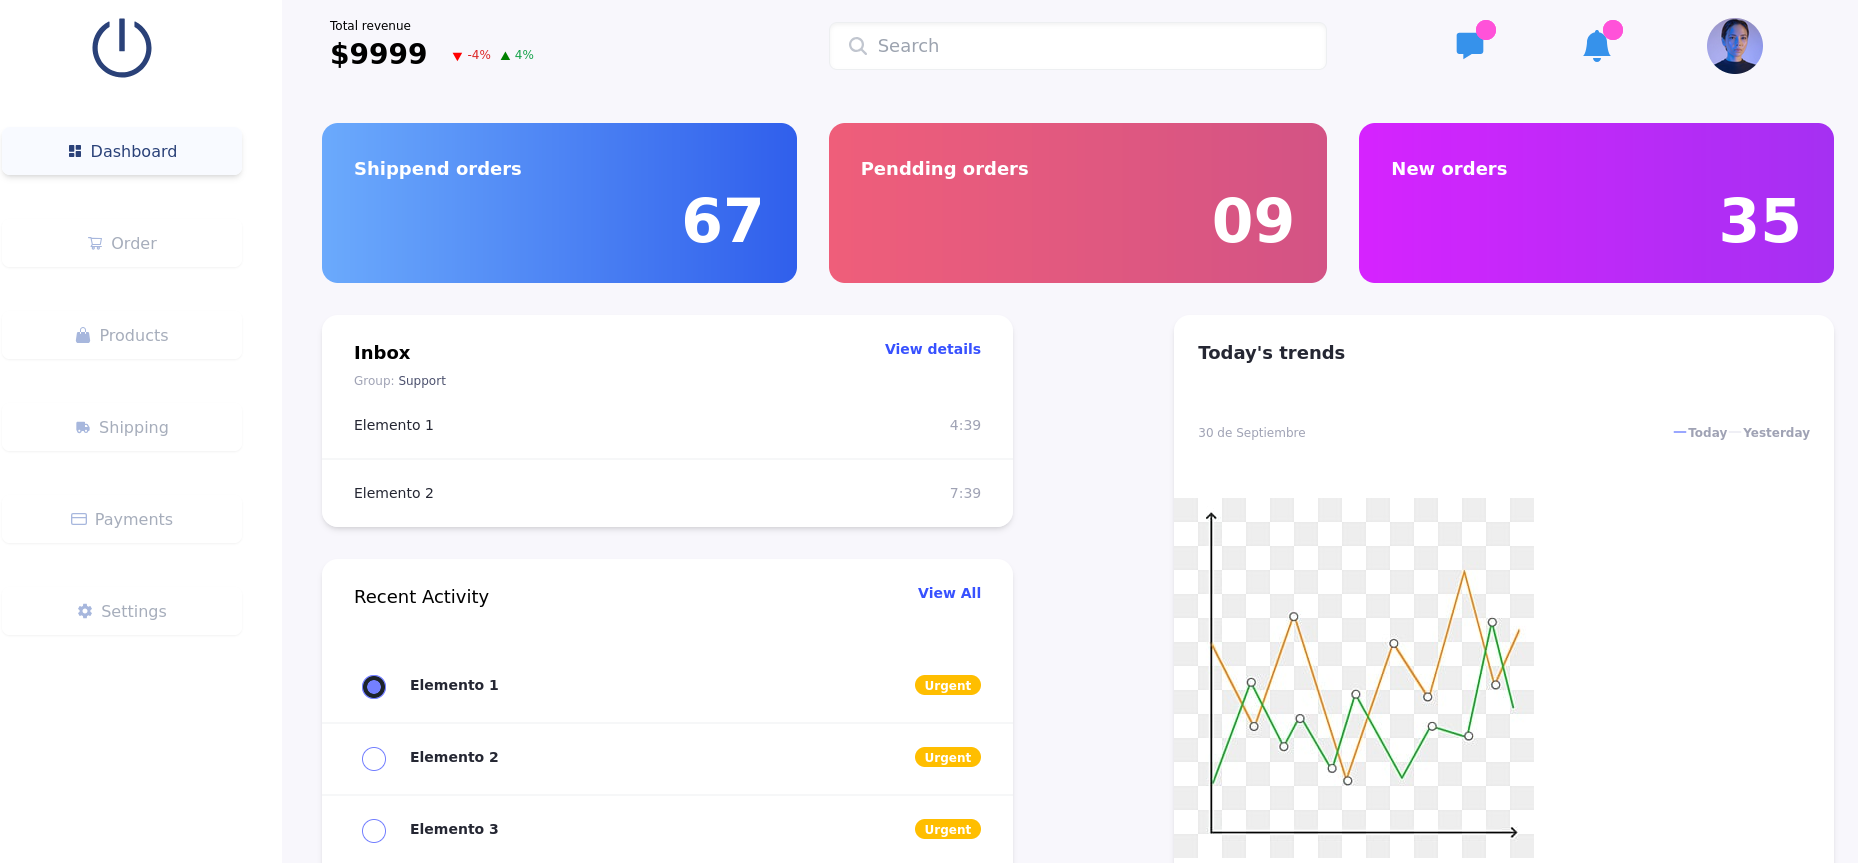
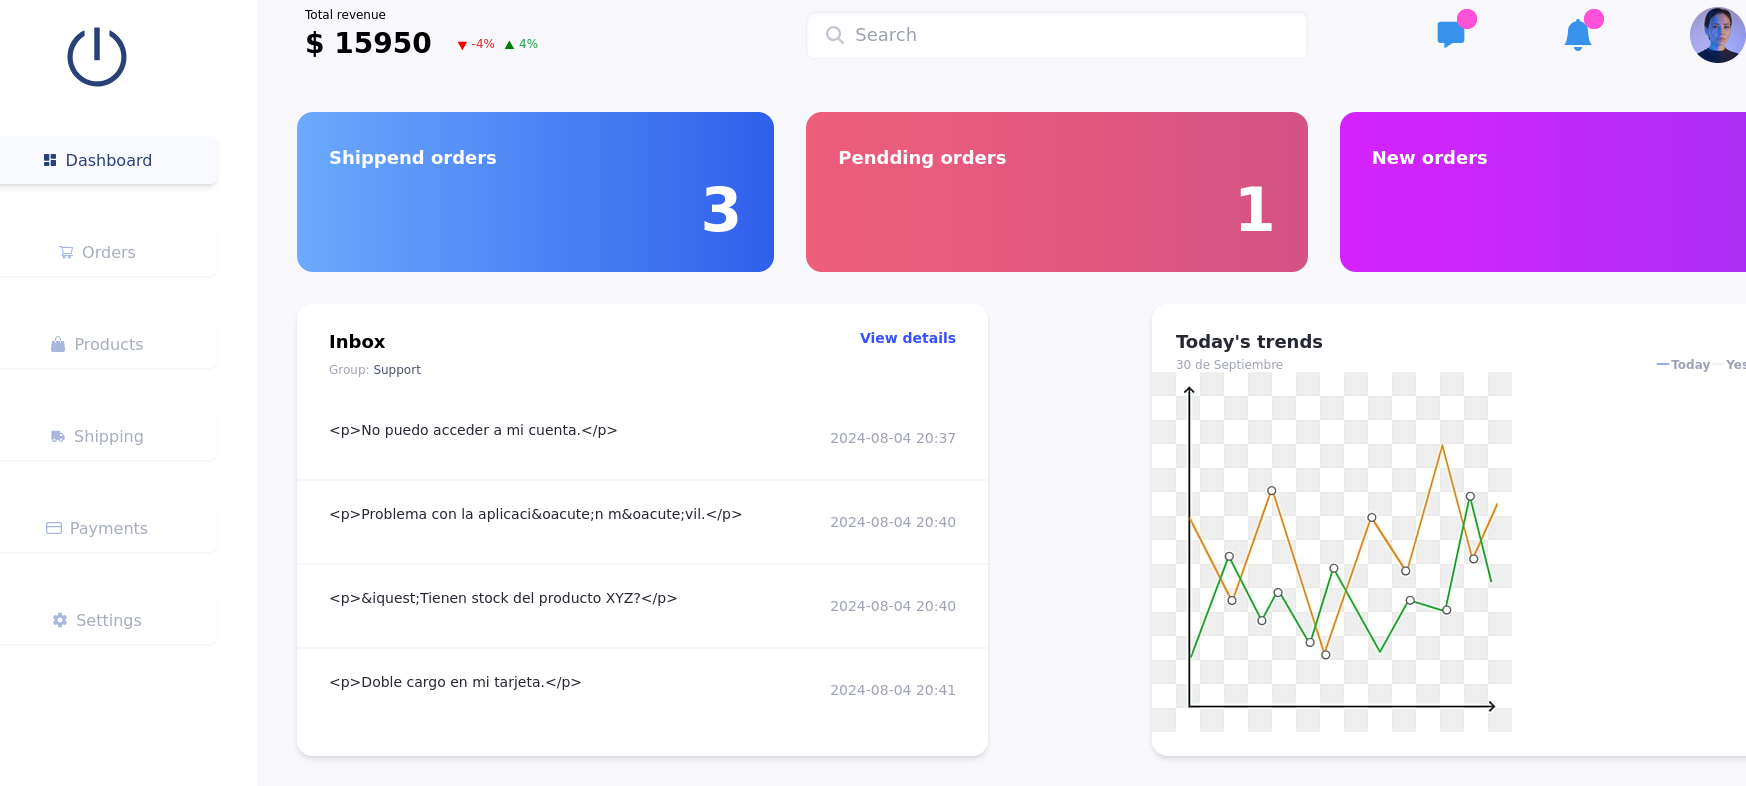
pantallas de login y dashboard actualizadas

diff --git a/README.md b/README.md
@@ -52,7 +52,7 @@ Aquí hay algunas capturas de pantalla del proyecto:
 ### Pantalla Principal (Pagina - dashboard)
 ![Pagina principal (dashboard)](public/screenshots/dashboard.png)
 ![Pagina de registro](public/screenshots/register.png)
-![Pagina de login](public/screenshots/login.png)
+![Pagina de login](public/screenshots/sigin.png)
 
 ## Tecnologías Utilizadas
 
